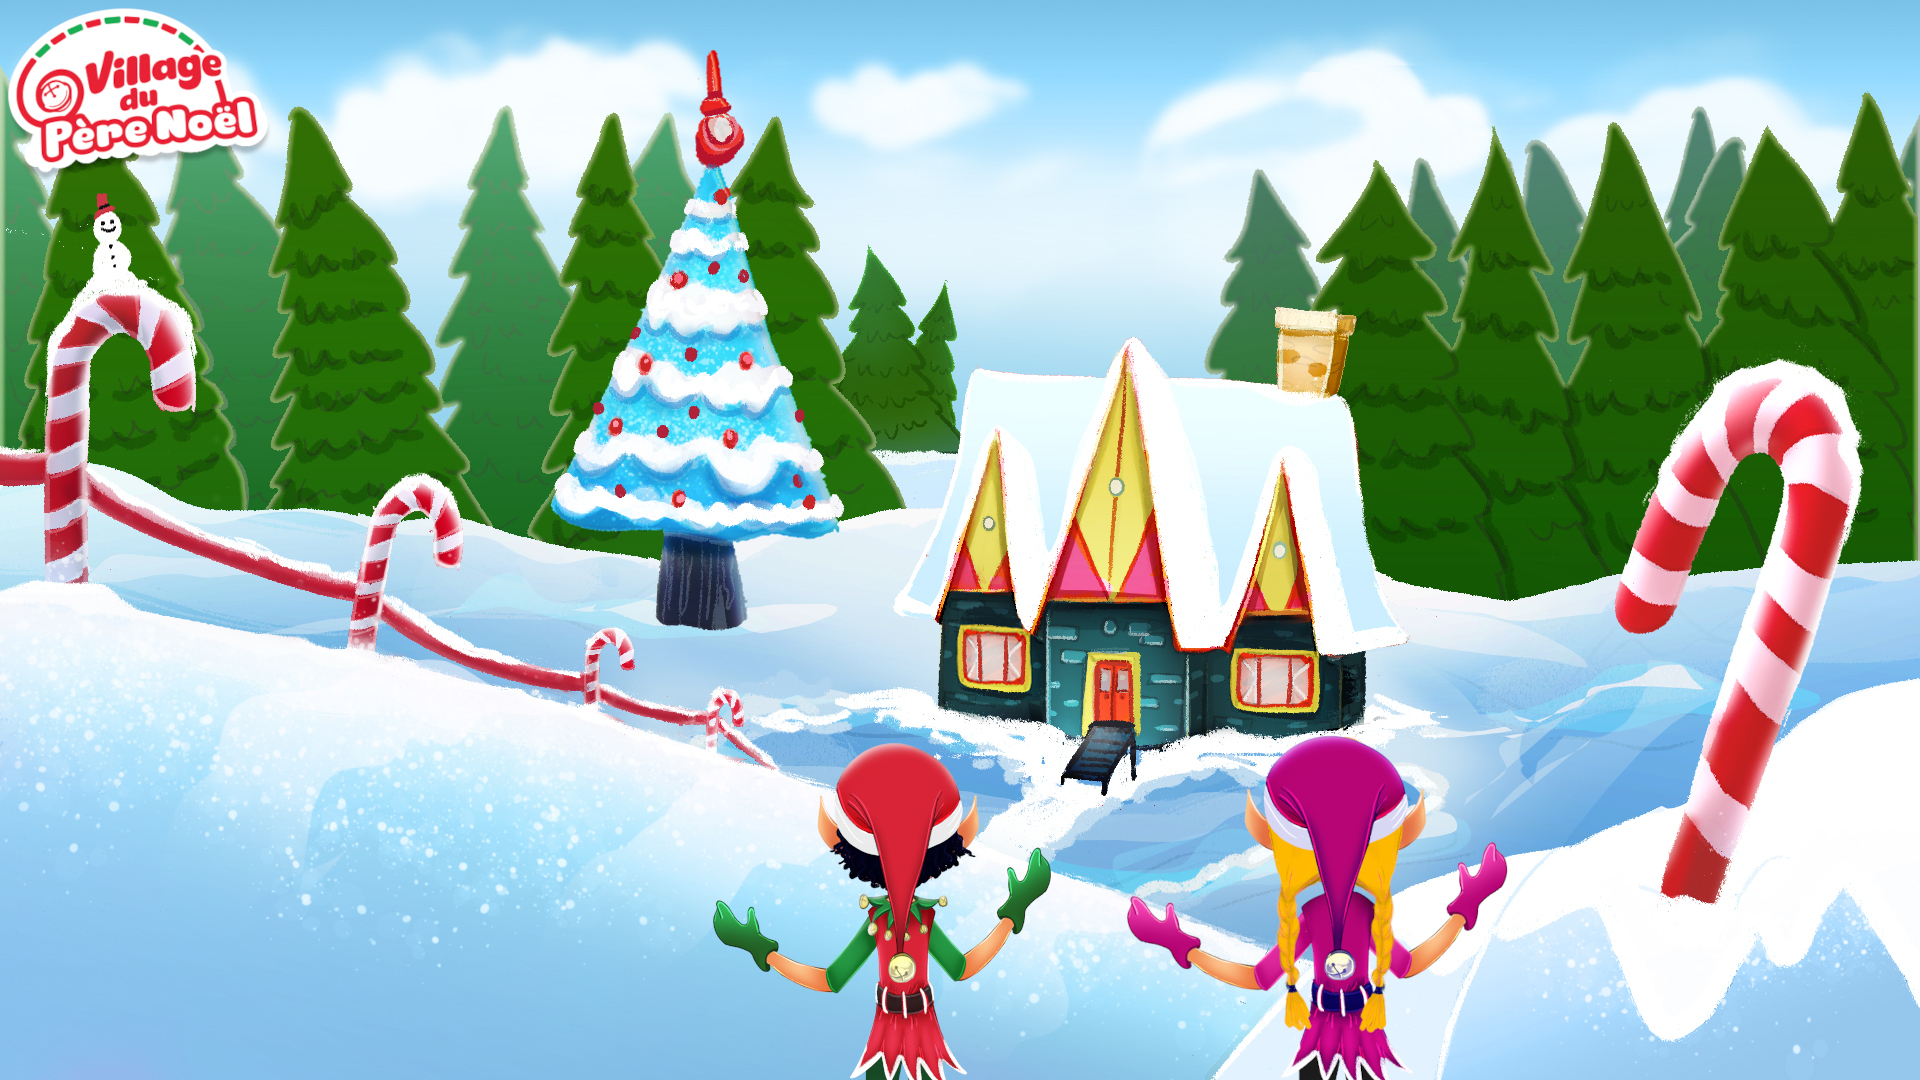
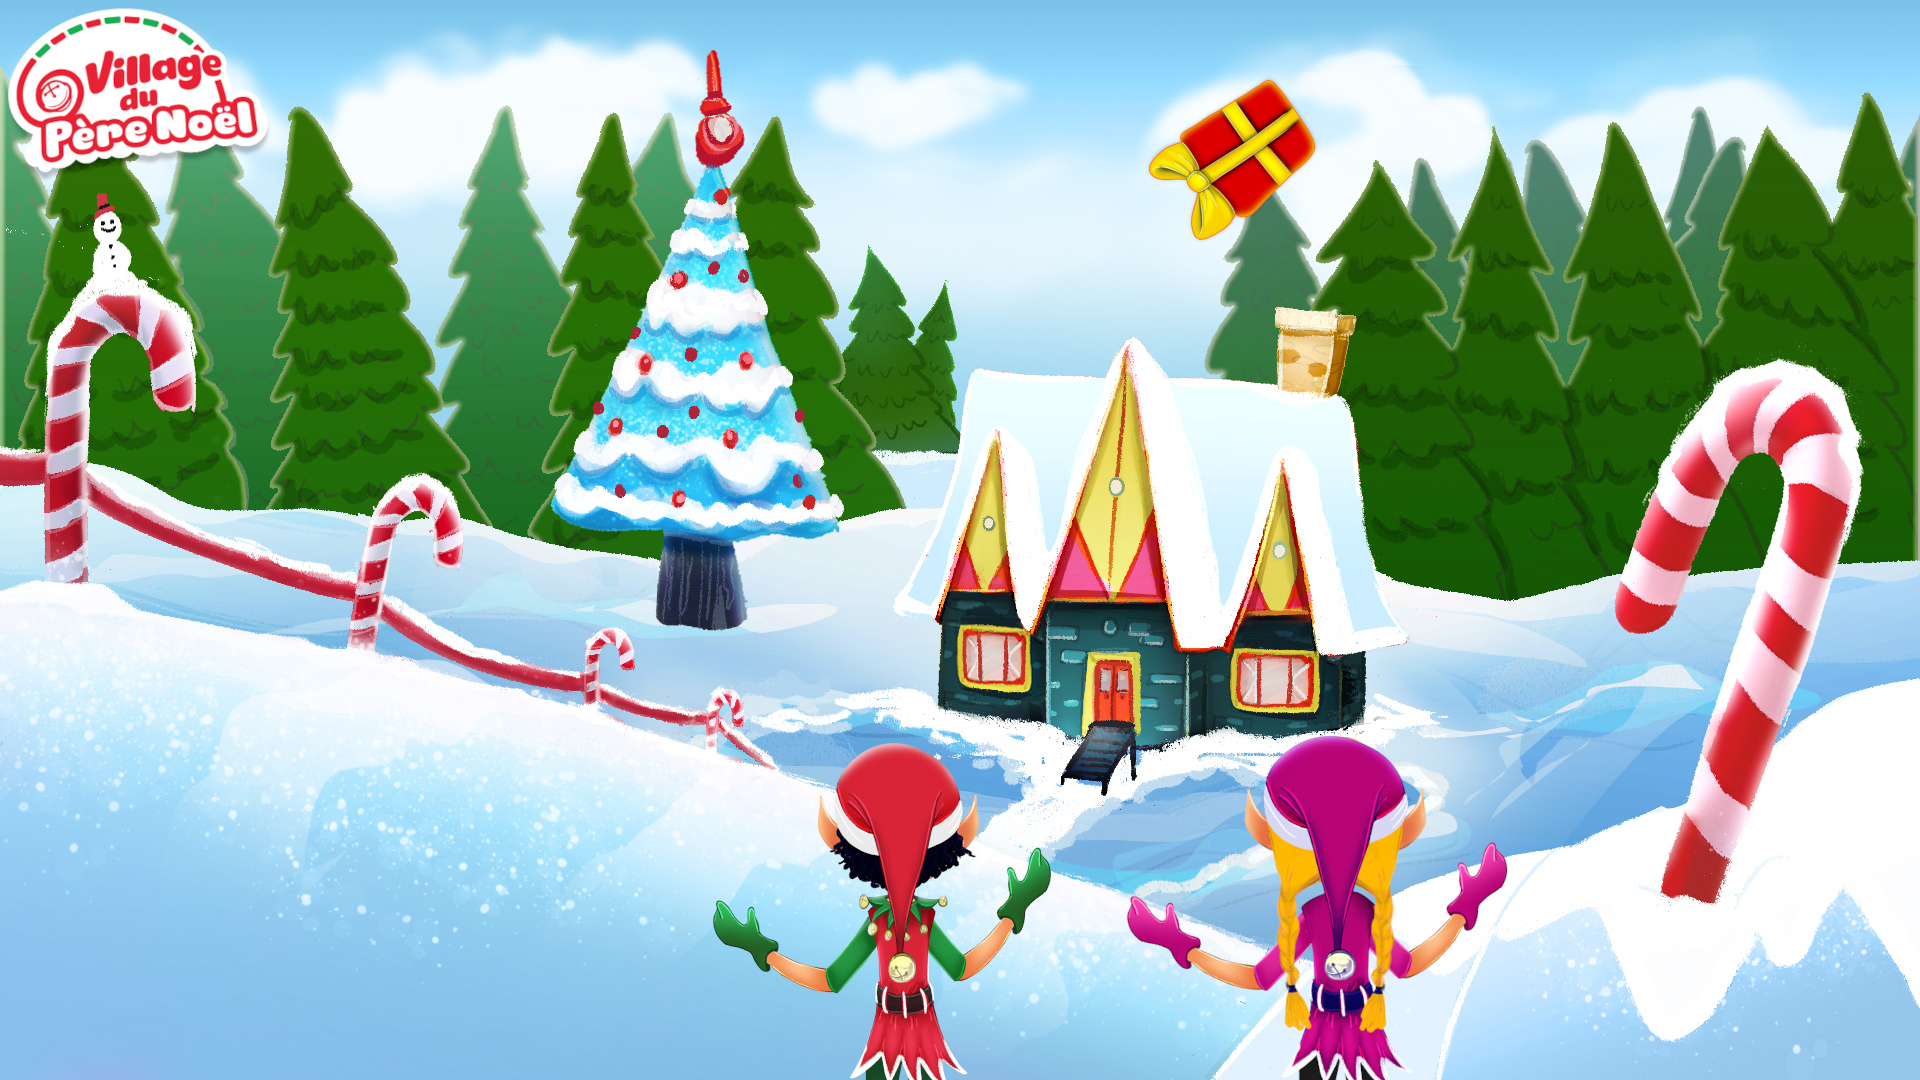
Ajout Jumbotron
Update image + cadeau lutins

Changed region(s): [[0.5938, 0.0611, 0.6875, 0.2139]]

diff --git a/index.html b/index.html
@@ -191,6 +191,16 @@
               </div>
             </div><!-- End Portfolio Item -->
 
+            <div class="col-lg-4 col-md-6 portfolio-item isotope-item filter-install">
+              <img src="assets/img/portfolio/installation-5-1.jpg" class="img-fluid" alt="">
+              <div class="portfolio-info">
+                <h4>Mini-jumbotron LNH</h4>
+                <p>Jumbotron WiFi qui affiche en direct le pointage de votre équipe de la LNH préférée @ Les des fans du CH</p>
+                <a href="assets/img/portfolio/installation-5-2.jpg" title="Affichage de la période en cours et effets sonores sur les buts" data-gallery="portfolio-gallery-branding" class="glightbox preview-link"><i class="bi bi-zoom-in"></i></a>
+                <a href="https://www.instructables.com/Panneau-Daffichage-LNH-Temps-R%C3%A9el/" title="Plus de détails" class="details-link" target="_blank"><i class="bi bi-link-45deg"></i></a>
+              </div>
+            </div><!-- End Portfolio Item -->
+
           </div><!-- End Portfolio Container -->
 
         </div>

diff --git a/en/index.html b/en/index.html
@@ -189,6 +189,16 @@
               </div>
             </div><!-- End Portfolio Item -->
 
+            <div class="col-lg-4 col-md-6 portfolio-item isotope-item filter-install">
+              <img src="assets/img/portfolio/installation-5-1.jpg" class="img-fluid" alt="">
+              <div class="portfolio-info">
+                <h4>Mini-jumbotron LNH</h4>
+                <p>WiFi jumbotron that displays the live score of your favorite NHL team @ Fans of the Habs.</p>
+                <a href="assets/img/portfolio/installation-5-2.jpg" title="Display the current period and goal sound effects." data-gallery="portfolio-gallery-branding" class="glightbox preview-link"><i class="bi bi-zoom-in"></i></a>
+                <a href="https://www.instructables.com/Panneau-Daffichage-LNH-Temps-R%C3%A9el/" title="Plus de détails" class="details-link" target="_blank"><i class="bi bi-link-45deg"></i></a>
+              </div>
+            </div><!-- End Portfolio Item -->
+
           </div><!-- End Portfolio Container -->
 
         </div>
